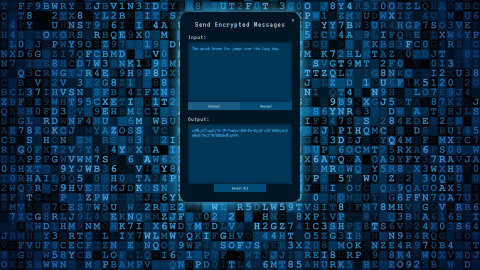
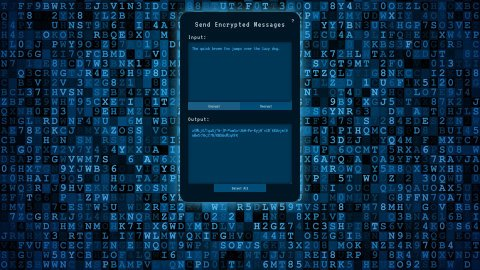
responsive images

diff --git a/index.html b/index.html
@@ -43,38 +43,32 @@
 			<h2>Projects</h2>
 			<div class="projects-container">
 				<a href="wa-resources/" class="project">
-						<img src="eq.jpg" class="project-image" alt="Screenshot of Web Audio project">
-						<img src="eq-480.jpg" class="project-image" alt="Screenshot of Web Audio project">
+						<img sizes="(max-width: 35em) calc(1.2*(100vw - 4em)), (max-width: 42em) calc(1.2*(100vw - 12em)), (max-width: 60em) calc(0.6*(100vw - 12em)), (max-width: 74em) calc(0.4*(100vw - 16em)), calc(0.4*(58em))" srcset="eq-480.jpg 480w, eq.jpg 960w" src="eq.jpg" class="project-image" alt="Screenshot of Web Audio project">
 						<div class="project-overlay"></div>
 						<span>Web Audio</span>
 				</a><!--
 				--><a href="https://www.beatschool.io" class="project">
-						<img src="beatschool.jpg" class="project-image" alt="Screenshot of full stack project">
-						<img src="beatschool-480.jpg" class="project-image" alt="Screenshot of full stack project">
+						<img sizes="(max-width: 35em) calc(1.2*(100vw - 4em)), (max-width: 42em) calc(1.2*(100vw - 12em)), (max-width: 60em) calc(0.6*(100vw - 12em)), (max-width: 74em) calc(0.4*(100vw - 16em)), calc(0.4*(58em))" srcset="beatschool-480.jpg 480w, beatschool.jpg 960w" src="beatschool.jpg" class="project-image" alt="Screenshot of full stack project">
 						<div class="project-overlay"></div>
 						<span>Full Stack</span>
 				</a><!--
 				--><a href="cipher/" class="project">
-						<img src="cipher.jpg" class="project-image" alt="Screenshot of text cipher project">
-						<img src="cipher-480.jpg" class="project-image" alt="Screenshot of text cipher project">
+						<img sizes="(max-width: 35em) calc(1.2*(100vw - 4em)), (max-width: 42em) calc(1.2*(100vw - 12em)), (max-width: 60em) calc(0.6*(100vw - 12em)), (max-width: 74em) calc(0.4*(100vw - 16em)), calc(0.4*(58em))" srcset="cipher-480.jpg 480w, cipher.jpg 960w" src="cipher.jpg" class="project-image" alt="Screenshot of text cipher project">
 						<div class="project-overlay"></div>
 						<span>Text Cipher</span>
 				</a><!--
 				--><a href="quote-machine" class="project">
-						<img src="youtube.jpg" class="project-image" alt="Screenshot of Tic Tac Toe project">
-						<img src="youtube-480.jpg" class="project-image" alt="Screenshot of Tic Tac Toe project">
+						<img sizes="(max-width: 35em) calc(1.2*(100vw - 4em)), (max-width: 42em) calc(1.2*(100vw - 12em)), (max-width: 60em) calc(0.6*(100vw - 12em)), (max-width: 74em) calc(0.4*(100vw - 16em)), calc(0.4*(58em))" srcset="youtube-480.jpg 480w, youtube.jpg 960w" src="youtube.jpg" class="project-image" alt="Screenshot of Tic Tac Toe project">
 						<div class="project-overlay"></div>
 						<span>YouTube API</span>
 				</a><!--
 				--><a href="tribute-page/" class="project">
-						<img src="tribute.jpg" class="project-image" alt="Screenshot of responsive design project">
-						<img src="tribute-480.jpg" class="project-image" alt="Screenshot of responsive design project">
+						<img sizes="(max-width: 35em) calc(1.2*(100vw - 4em)), (max-width: 42em) calc(1.2*(100vw - 12em)), (max-width: 60em) calc(0.6*(100vw - 12em)), (max-width: 74em) calc(0.4*(100vw - 16em)), calc(0.4*(58em))" srcset="tribute-480.jpg 480w, tribute.jpg 960w" src="tribute.jpg" class="project-image" alt="Screenshot of responsive design project">
 						<div class="project-overlay"></div>
 						<span>Responsive Design</span>
 				</a><!--
 				--><a href="wiki-viewer" class="project">
-						<img src="wiki.jpg" class="project-image" alt="Screenshot of Wikipedia API project">
-						<img src="wiki-480.jpg" class="project-image" alt="Screenshot of Wikipedia API project">
+						<img sizes="(max-width: 35em) calc(1.2*(100vw - 4em)), (max-width: 42em) calc(1.2*(100vw - 12em)), (max-width: 60em) calc(0.6*(100vw - 12em)), (max-width: 74em) calc(0.4*(100vw - 16em)), calc(0.4*(58em))" srcset="wiki-480.jpg 480w, wiki.jpg 960w" src="wiki.jpg" class="project-image" alt="Screenshot of Wikipedia API project">
 						<div class="project-overlay"></div>
 						<span>Wikipedia API</span>
 				</a>

diff --git a/style.css b/style.css
@@ -339,7 +339,6 @@ body{
 
 .project-image{
 	display: block;
-	border-radius: 0.5rem;
 	background: #261c17;
 	width: 100%;
 	transition: transform 0.75s ease, transform-origin 0.2s ease-out;
@@ -389,7 +388,7 @@ body{
 
 @media all and (min-width: 60em){
 	.project{
-		width: 25%;
+		width: 28%;
 		width: calc(33.33% - 2em);
 	}	
 	.projects-container{
